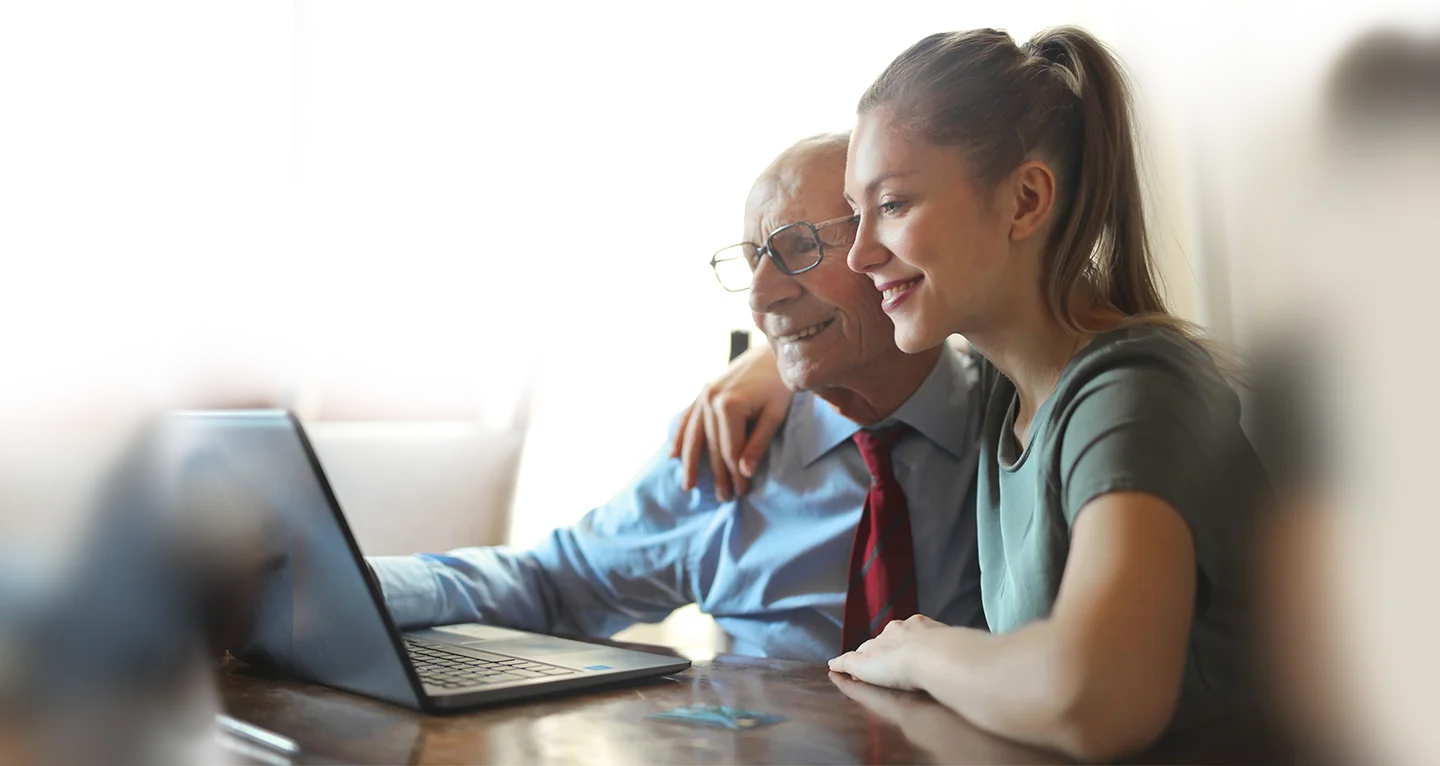
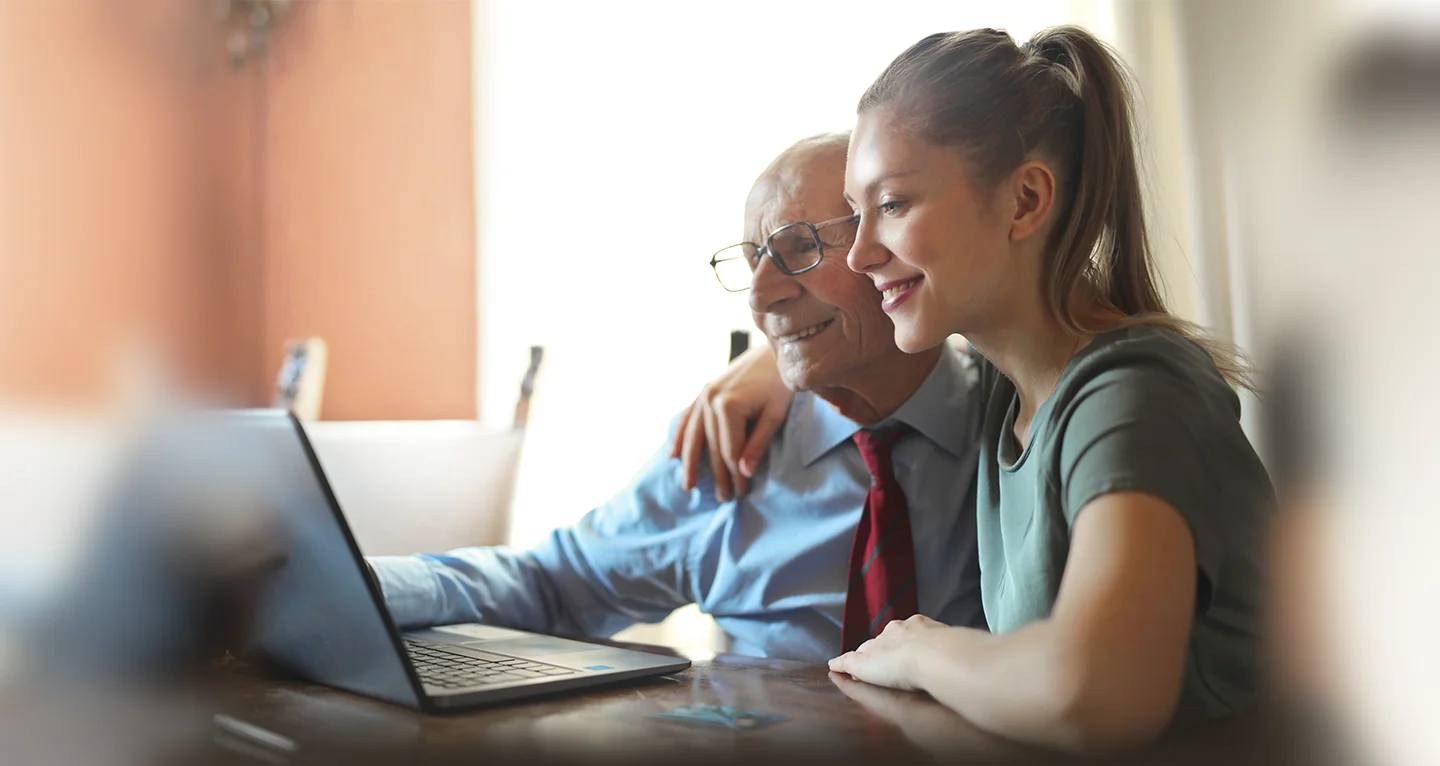
refactor: use new image for features final cta cover and features usp; adjust position of final cta content;
Resolves #380

Resolves #369

diff --git a/components/features/cta/index.vue b/components/features/cta/index.vue
@@ -6,7 +6,7 @@
       :class="{'pt-12': $isMobile}"
     )
       v-row(slot="content" align="center").row-content
-        v-col(v-if="!$isMobile" cols="12" md="6")
+        v-col(v-if="!$isMobile" cols="12" md="6").col-content
           h1(:class="titleClasses").font-poppins.font-40.lh-title {{ uspTitle }}
           p(:class="[centerText]").font-italic.font-18.px-1 {{ uspSubtitle }}
           div(v-if="!$isMobile").text-field-container.mr-3
@@ -103,15 +103,23 @@ export default {
 .row-content {
   height: 100vh;
 }
-
+.col-content{
+  margin-top: -300px;
+}
 @media screen and (max-width: 1448px) {
   .row-content {
     height: 90vh;
+  }
+  .col-content{
+    margin-top: -250px;
   }
 }
 @media screen and (max-width: 1300px) {
   .row-content {
     height: 72vh;
+  }
+  .col-content{
+    margin-top: -160px;
   }
 }
 @media screen and (max-width: 1264px) {
@@ -136,6 +144,9 @@ export default {
   .text-field-container {
     display: inline-block !important;
   }
+  .col-content{
+    margin-top: -210px;
+  }
 }
 @media screen and (device-width: 1024px) and (orientation: portrait) {
   .row-content {
@@ -144,10 +155,16 @@ export default {
   .text-field-container {
     display: inline-block !important;
   }
+  .col-content{
+    margin-top: -210px;
+  }
 }
 @media screen and (device-height: 1024px) and (orientation: landscape) {
   .row-content {
     height: 74vh;
+  }
+  .col-content{
+    margin-top: -290px;
   }
 }
 </style>
